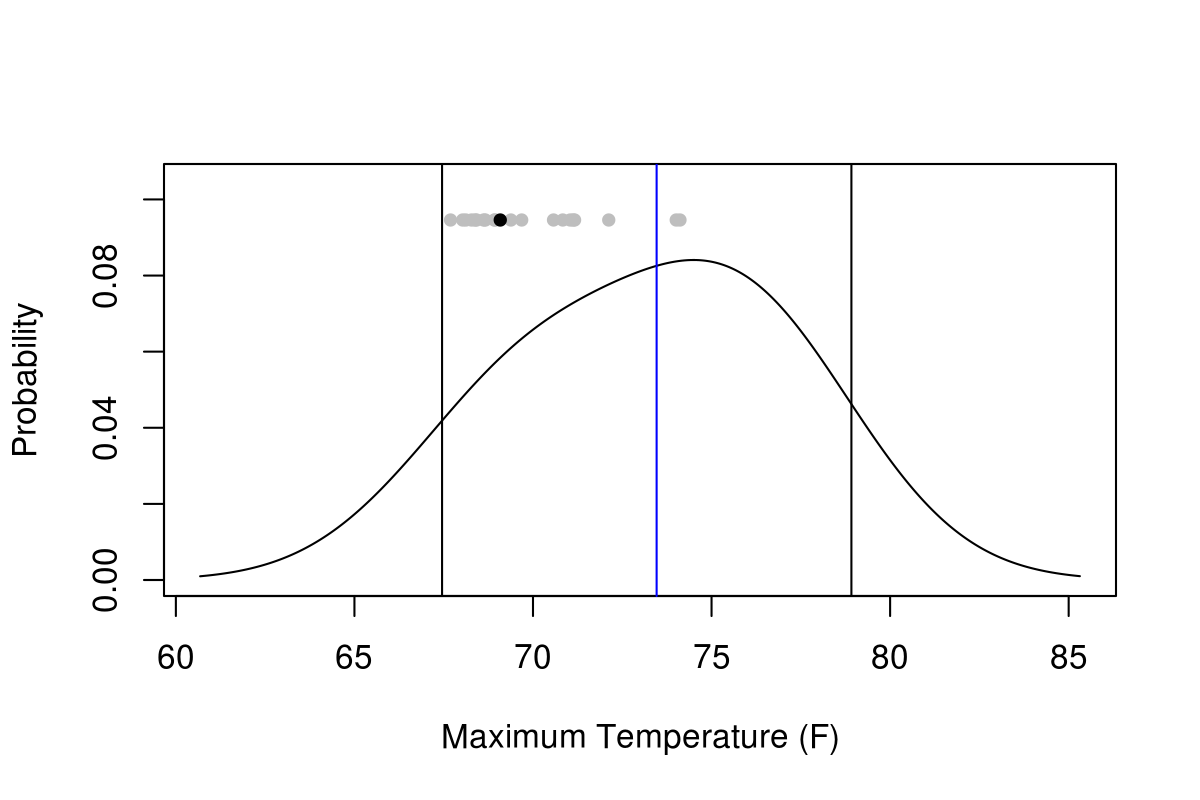
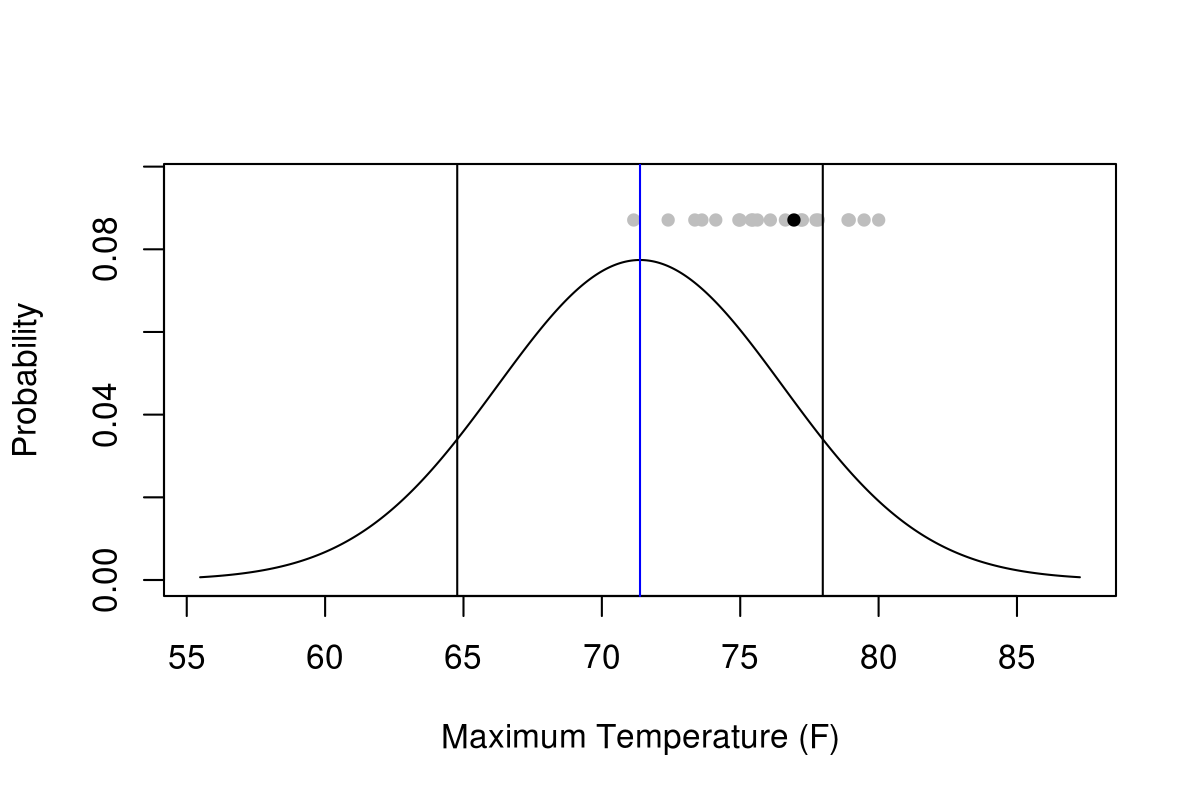
Updated wxchallenge.md

diff --git a/wxchallenge.md b/wxchallenge.md
@@ -3,18 +3,18 @@ layout: page
 title: WxChallenge
 ---
 
-This page provides some tools I use to help me in the [WxChallenge](http://www.wxchallenge.com/). The current city is Harrisburg, PA (KMDT).
+This page provides some tools I use to help me in the [WxChallenge](http://www.wxchallenge.com/). The current city is Grand Island, NE (KGRI).
 
-* [NWS Forecast](http://forecast.weather.gov/MapClick.php?lat=40.1934&lon=-76.7633#.V_-4vpMrJE4)
-* [3-Day Obs](http://w1.weather.gov/data/obhistory/KMDT.html)
+* [NWS Forecast](http://forecast.weather.gov/MapClick.php?lat=40.95833&lon=-98.3125#.WA5O-nUrIkg)
+* [3-Day Obs](http://w1.weather.gov/data/obhistory/KGRI.html)
 * [SREF Plume Viewer](http://www.spc.noaa.gov/exper/sref/srefplumes/)
 * [WxChallenge WxData](http://www.wxchallenge.com/tools/weatherdata.php)
 
-## Calibrated PDFs for KMDT for Friday, October 21
+## Calibrated PDFs for KGRI for Tuesday, October 25
 
 For information on Bayesian Model Averaging (BMA), scroll to the [bottom of this page](#bma). Click on each image to enlarge it.
 
-> Plots updated 2016-10-20 18:22 GMT
+> Plots updated 2016-10-24 18:11 GMT
 
 <p align="center"><strong>Maximum Temperature</strong></p>
 [<img src="tmax.png" width="700"/>](tmax.png)
